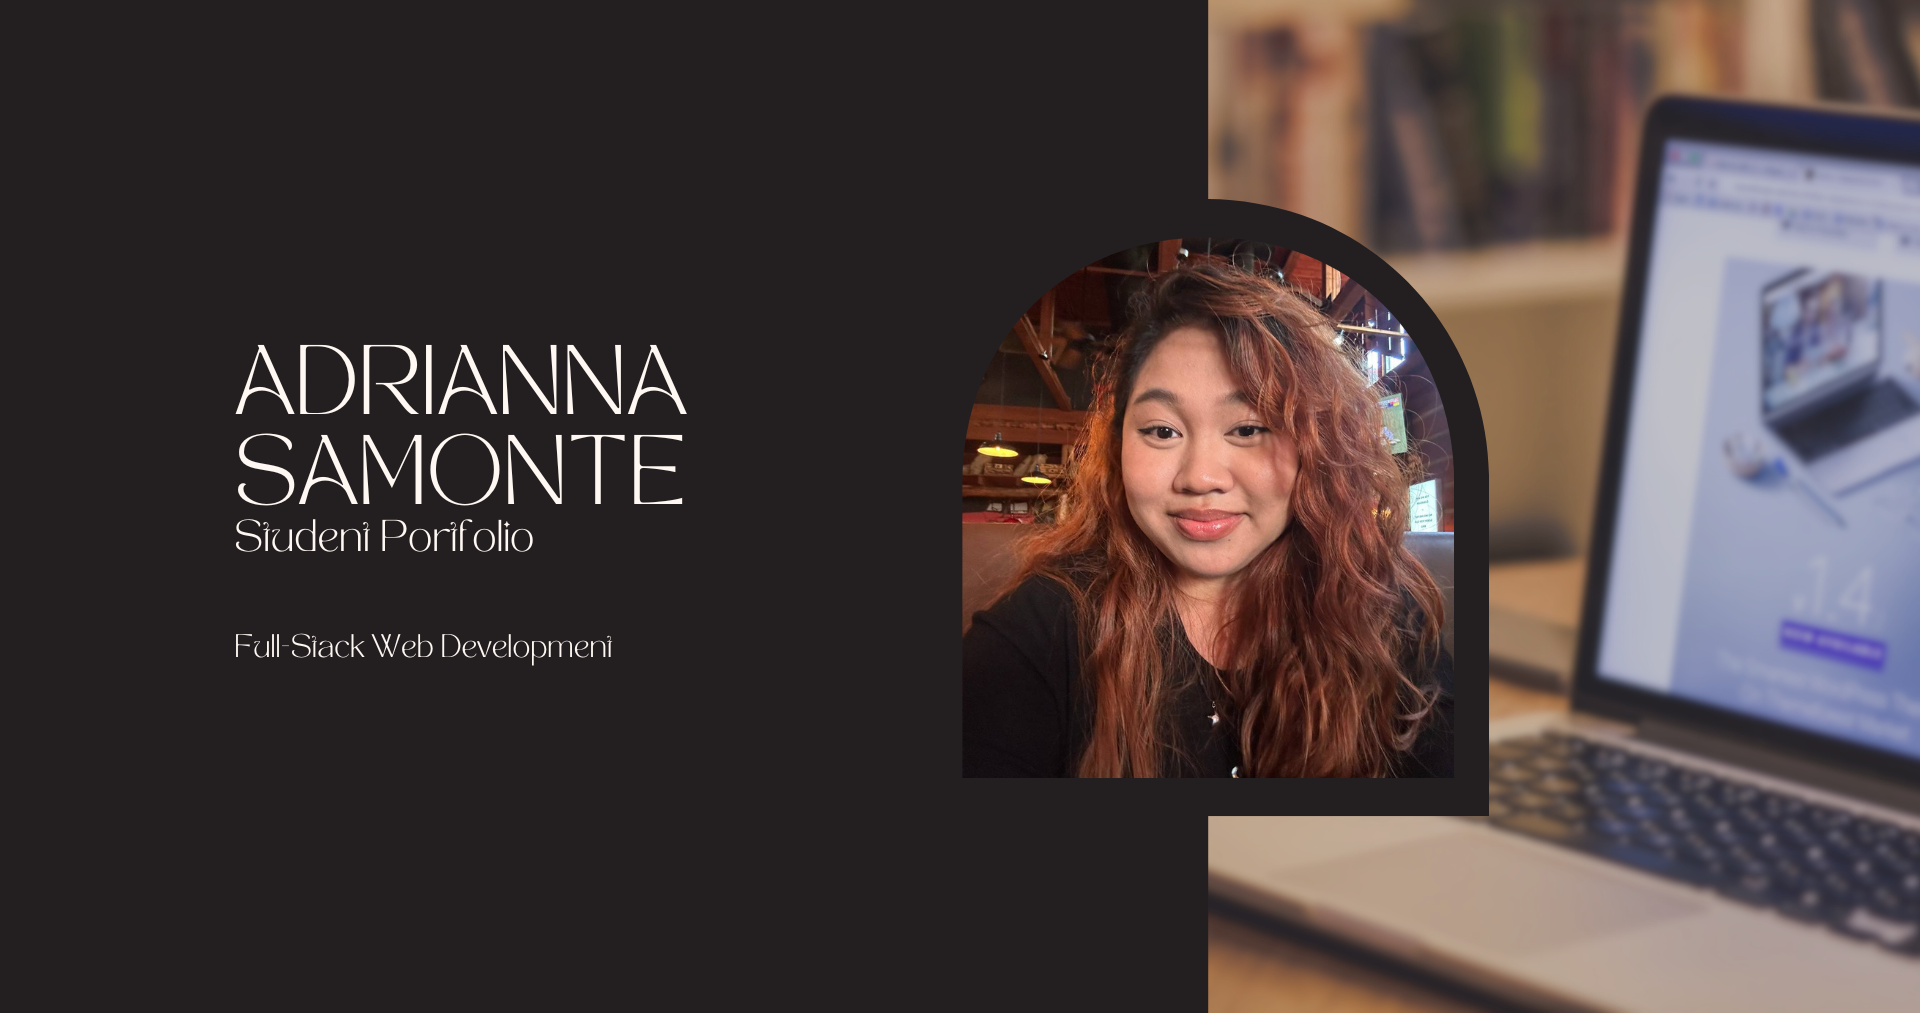
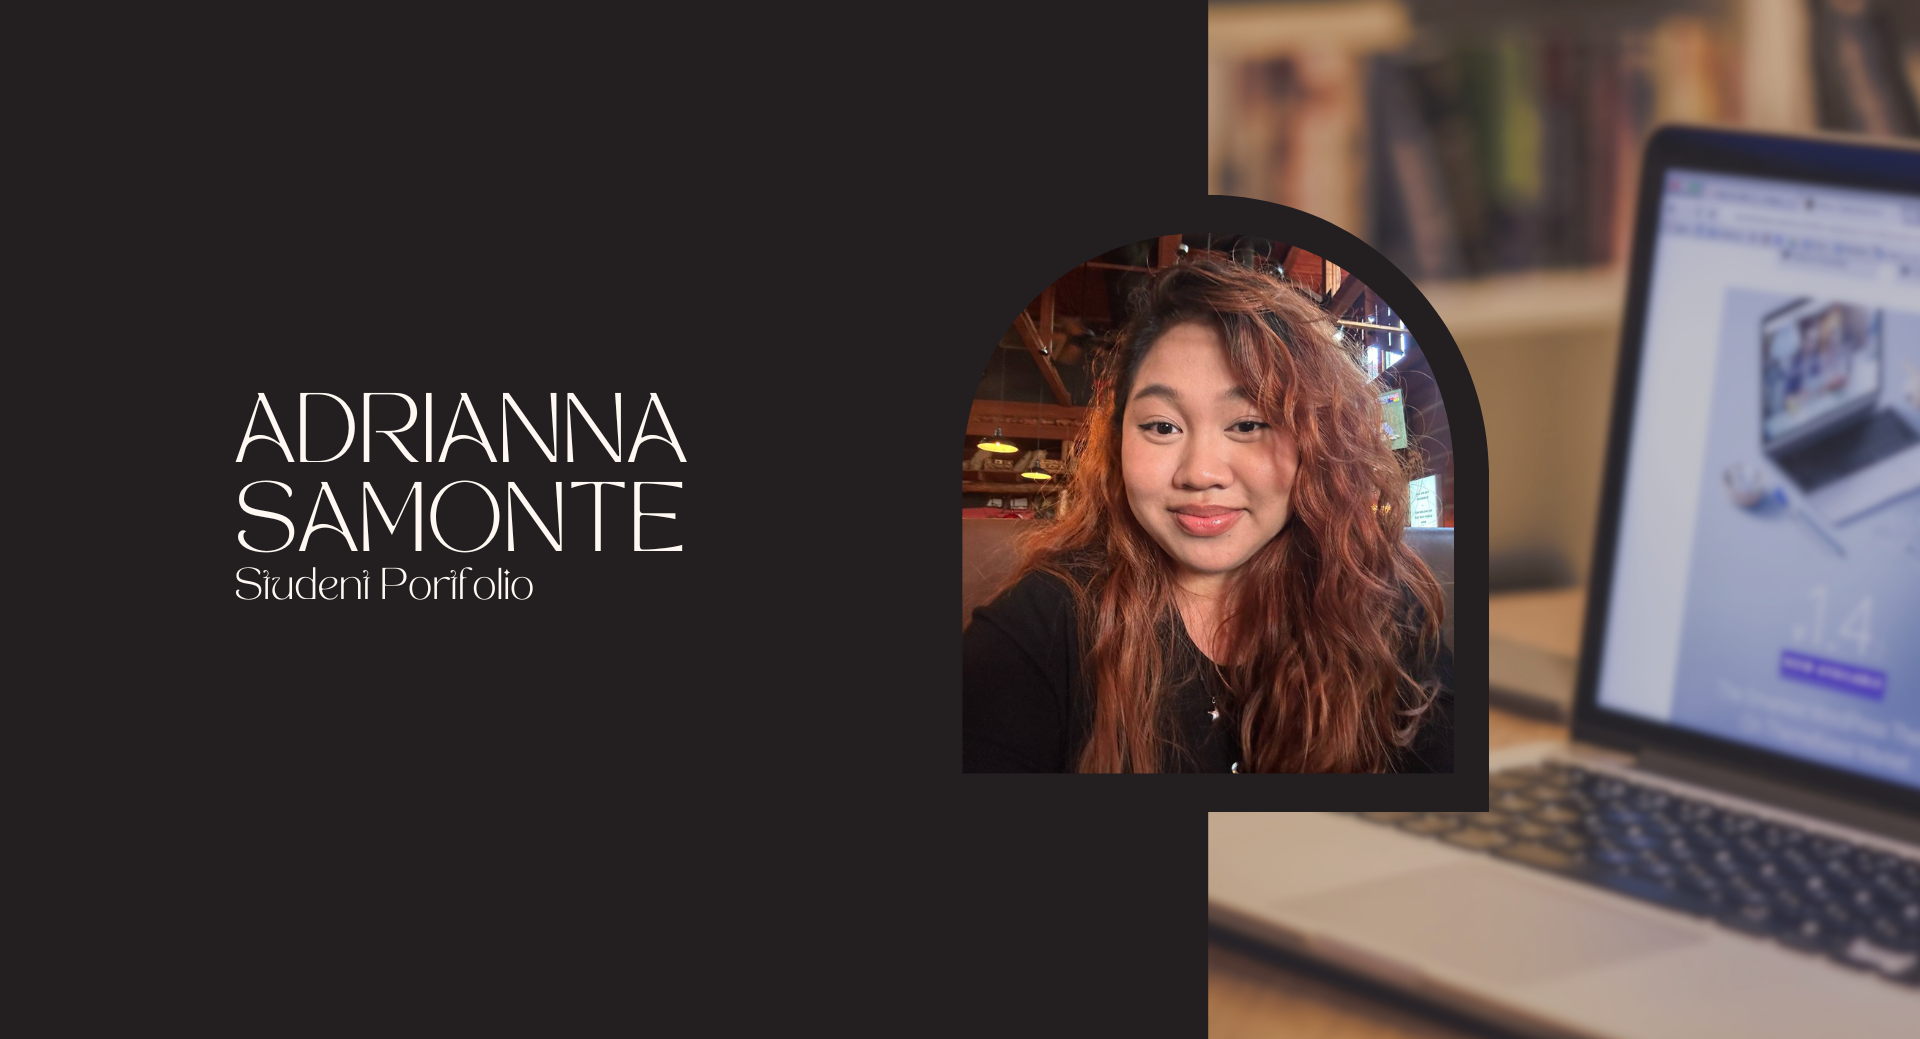
added info

diff --git a/src/sections/BasicInfo/BasicInfo.tsx b/src/sections/BasicInfo/BasicInfo.tsx
@@ -2,6 +2,7 @@ import React from "react";
 import HeroImage from "../../components/HeroImage";
 import Text from "../../components/Text";
 import Card from "../../components/Card";
+import Button from "../../components/Button";
 import styled from "styled-components";
 
 const Name = styled.h1`
@@ -21,7 +22,7 @@ const BasicInfo = () => {
   return (
     <>
       <HeroImage
-        src="/portfolioheroimage1.png"
+        src="/portfolioheroimage2.png"
         alt="portfolioheroimage"
         height="600px"
         style={{ display: "block" }}
@@ -30,7 +31,7 @@ const BasicInfo = () => {
       <Card
         style={{
           position: "relative",
-          margin: "-60px auto 5rem", // <-- add some space below
+          margin: "-60px auto 5rem",
           padding: "3rem 2rem",
           width: "1000px",
           backgroundColor: "white",
@@ -39,7 +40,7 @@ const BasicInfo = () => {
       >
         <Name>Adrianna Samonte</Name>
         <Text style={{ fontWeight: 600, color: "#6d5c4a" }}>
-          Full-Stack Web Developer • Student
+          Full-Stack Web Developer • Student (she/her)
         </Text>
 
         <InfoWrapper>
@@ -48,10 +49,20 @@ const BasicInfo = () => {
             color="#4a3f35"
             style={{ marginTop: "0.75rem", fontWeight: 600 }}
           >
-            I'm a student currently studying in the{" "}
-            <strong>Full-Stack Web Development</strong> program at
-            <strong> Red River College Polytechnic</strong>, where I’m building
-            strong foundations in front-end and back-end development.
+            Currently, I am studying <strong>Full-Stack Web Development</strong>{" "}
+            at <strong>Red River College Polytechnic</strong>, where I’m
+            building a strong skills in both front-end and back-end development.
+          </Text>
+          <Text
+            size="medium"
+            color="#4a3f35"
+            style={{ marginTop: "0.75rem", fontWeight: 600 }}
+          >
+            I'm most passionate about front-end development in creating clean,
+            modern, and intuitive websites that place a strong focus on
+            accessibility, user experience, and consistency in design. I enjoy
+            converting ideas into functional, visually engaging solutions while
+            understanding the reasoning behind every line of code.
           </Text>
 
           <Text
@@ -59,22 +70,30 @@ const BasicInfo = () => {
             color="#4a3f35"
             style={{ marginTop: "0.75rem", fontWeight: 600 }}
           >
-            I'm passionate about creating clean, modern, and intuitive websites
-            that focus on accessibility, user experience, and design
-            consistency. I enjoy bringing ideas to life and learning the “why”
-            behind the code I write.
+            While I'm developing skills across the full stack, my primary focus
+            and strength lie in front-end development, UI/UX design, and
+            building responsive layouts that feel polished and professional.
+            Each project helps me continue to better my craft and find even
+            better ways to create engaging digital experiences.
           </Text>
 
-          <Text
-            size="medium"
-            color="#4a3f35"
-            style={{ marginTop: "0.75rem", fontWeight: 600 }}
-          >
-            I'm especially interested in front-end development, UI/UX design,
-            and building responsive layouts that feel smooth and professional.
-            Every new project helps me improve my skills and explore better ways
-            to build engaging digital experiences.
-          </Text>
+          <a href="/work">
+            <Button
+              label="See My Projects"
+              style={{
+                marginTop: "2rem",
+                padding: "0.8rem 1.5rem",
+                fontWeight: 600,
+                fontSize: "13px",
+                borderRadius: "8px",
+                backgroundColor: "#6d5c4a",
+                color: "#fff",
+                border: "none",
+                cursor: "pointer",
+                transition: "0.3s ease",
+              }}
+            />
+          </a>
         </InfoWrapper>
       </Card>
     </>

diff --git a/src/sections/DevSetup/DevSetup.tsx b/src/sections/DevSetup/DevSetup.tsx
@@ -91,9 +91,11 @@ const DeveloperSetup = () => {
               <Text size="small" color="#5a4734">
                 Theme: Alma Sakura
               </Text>
-              <Text size="small" color="#5a4734" style={{ fontWeight: 500 }}>
-                A soft pastel color theme designed for readability and a calm
-                coding experience.
+              <Text size="small" color="#5a4734" style={{ fontWeight: 400 }}>
+                Japanese styled theme inspired from the flower cheery blossom.
+                Based on the color of cheery blossom, asorted pinkish color are
+                darkened in lower constrast, blended in a low-profile, relieving
+                style. Language highlighting styled designed for Typescipt.
               </Text>
             </Card>
 
@@ -108,7 +110,13 @@ const DeveloperSetup = () => {
               <Text size="small" color="#5a4734" style={{ fontWeight: 600 }}>
                 Key Extensions
               </Text>
-              <ul style={{ textAlign: "left", marginTop: "0.5rem" }}>
+              <ul
+                style={{
+                  textAlign: "left",
+                  marginTop: "0.5rem",
+                  color: "#5a4734",
+                }}
+              >
                 <li>Prettier – Auto format code</li>
                 <li>Auto Close Tag – Automatically closes HTML/XML tags</li>
                 <li>Code Runner – Run code snippets quickly</li>
@@ -235,9 +243,9 @@ const DeveloperSetup = () => {
                 backgroundColor: "white",
               }}
             >
-              <Text color="#5a473c4">VS Code Default Font</Text>
+              <Text color="#5a4734">VS Code Default Font</Text>
               <FontSample font="Consolas" style={{ fontWeight: 700 }}>
-                Consolas - function greet() {"{"} return "Hi!"; {"}"}
+                Consolas - Hello World, this is a test!
               </FontSample>
             </Card>
 
@@ -248,7 +256,7 @@ const DeveloperSetup = () => {
                 backgroundColor: "white",
               }}
             >
-              <Text color="#5a473c4">Monaco</Text>
+              <Text color="#5a4734">Monaco</Text>
               <FontSample font="Monaco">
                 Monaco - The quick brown fox jumps over the lazy dog.
               </FontSample>
@@ -261,7 +269,7 @@ const DeveloperSetup = () => {
                 backgroundColor: "white",
               }}
             >
-              <Text color="#5a473c4">Courier New</Text>
+              <Text color="#5a4734">Courier New</Text>
               <FontSample font="Courier New" style={{ fontWeight: 700 }}>
                 Courier New - const hello = "world";
               </FontSample>
@@ -274,9 +282,9 @@ const DeveloperSetup = () => {
                 backgroundColor: "white",
               }}
             >
-              <Text color="#5a473c4">Cascadia Code</Text>
+              <Text color="#5a4734">Cascadia Code</Text>
               <FontSample font="Cascadia Code">
-                Cascadia Code - console.log("Hello!");
+                Cascadia Code - The five boxing wizards jump quickly
               </FontSample>
             </Card>
 
@@ -287,9 +295,9 @@ const DeveloperSetup = () => {
                 backgroundColor: "white",
               }}
             >
-              <Text color="#5a473c4">Menlo</Text>
+              <Text color="#5a4734">Menlo</Text>
               <FontSample font="Menlo" style={{ fontWeight: 700 }}>
-                Menlo - const sum = 10 + 5;
+                Menlo - ABCDEFGHIJKLMNOPQRSTUVWXYZ
               </FontSample>
             </Card>
 
@@ -300,9 +308,9 @@ const DeveloperSetup = () => {
                 backgroundColor: "white",
               }}
             >
-              <Text color="#5a473c4">Lucida Console</Text>
+              <Text color="#5a4734">Lucida Console</Text>
               <FontSample font="Lucida Console" style={{ fontWeight: 700 }}>
-                Lucida Console - console.log("Hello!");
+                Lucida Console - x = 2x + 5
               </FontSample>
             </Card>
           </>

diff --git a/src/sections/Work/Work.tsx b/src/sections/Work/Work.tsx
@@ -22,7 +22,7 @@ const Work = () => {
     {
       title: "Heaven Scent",
       description:
-        "A fully functional flower shop website with dynamic pages, product listings, WBS documentation, and a CMS for managing categories, inventory, and content.",
+        "A flower shop project website I created having fully functional featuring dynamic pages, product listings, and a working checkout system for testing purchases.",
       image: "/heaven_scent.png",
       link: "/Project4_Adrianna_Samonte",
       tech: ["JavaScript", "HTML", "CSS"],
@@ -30,14 +30,15 @@ const Work = () => {
     {
       title: "DigiLight Studios",
       description:
-        "A large-scale CMS for a photography studio featuring user roles (Admin, Photographer, Guest), photo galleries, blog management, comment moderation, CAPTCHA validation, and category-based navigation.",
+        "A CMS project I create for a photography studio with user roles, photo galleries, blog management, comment moderation, CAPTCHA, and category-based navigation.",
       image: "/cmsphotography.png",
       link: "https://github.com/asamonte40/WebDev2Project.git",
       tech: ["PHP", "MySQL", "HTML", "CSS"],
     },
     {
       title: "HAYDEN PLANETARIUM Mockup",
-      description: "A fully custom portfolio built with React & TypeScript.",
+      description:
+        "A practice assignment where I recreated a provided website design using only HTML and CSS, focusing on accurately replicating the layout and visual structure.",
       image: "/mockup.png",
       link: "/Project1_Adrianna_Samonte/project1.html",
       tech: ["HTML", "CSS"],
@@ -67,7 +68,6 @@ const Work = () => {
               backgroundColor: "white",
             }}
           >
-            {/* Custom Img component */}
             <Img
               src={item.image}
               alt={item.title}
@@ -79,7 +79,6 @@ const Work = () => {
               }}
             />
 
-            {/* Title */}
             <Text
               style={{
                 marginTop: "1rem",
@@ -90,7 +89,6 @@ const Work = () => {
               {item.title}
             </Text>
 
-            {/* Description */}
             <Text
               style={{
                 marginTop: "0.5rem",
@@ -102,7 +100,6 @@ const Work = () => {
               {item.description}
             </Text>
 
-            {/* Tech List */}
             <div
               style={{
                 marginTop: "1rem",
@@ -110,6 +107,8 @@ const Work = () => {
                 flexWrap: "wrap",
                 gap: "0.5rem",
                 marginBottom: "1rem",
+                justifyContent: "center",
+                alignItems: "center",
               }}
             >
               {item.tech.map((t) => (
@@ -130,7 +129,6 @@ const Work = () => {
               ))}
             </div>
 
-            {/* Optional Button */}
             {item.link && (
               <Button
                 style={{

diff --git a/src/sections/Resources/Resources.tsx b/src/sections/Resources/Resources.tsx
@@ -52,6 +52,13 @@ const Resources = () => {
         "A simple and intuitive tool for creating graphics, layouts, and designs quickly.",
       link: "https://www.canva.com/",
     },
+    {
+      title: "RRC Polytech LEARN",
+      icon: "/learn_logo.png",
+      summary:
+        "The official RRC Polytech learning platform for course materials and updates.",
+      link: "https://learn.rrc.ca/",
+    },
   ];
 
   return (
@@ -92,7 +99,11 @@ const Resources = () => {
             <Text
               size="small"
               color="#4a3f35"
-              style={{ marginBottom: "1rem", fontWeight: 600 }}
+              style={{
+                marginBottom: "1rem",
+                fontWeight: 600,
+                color: "#6d5c4a",
+              }}
             >
               {res.summary}
             </Text>

diff --git a/src/sections/Skills/Skills.tsx b/src/sections/Skills/Skills.tsx
@@ -112,8 +112,9 @@ const Skills = () => {
         color="#4a3f35"
         style={{ marginTop: "0.75rem", fontWeight: 600 }}
       >
-        A combination of technical and professional skills that support my work
-        in web development.
+        These are the skills I've built as a web developer, combining both
+        technical skills with my professional skills to design projects that are
+        efficient, user-friendly, and visually engaging.
       </Text>
 
       <Card
